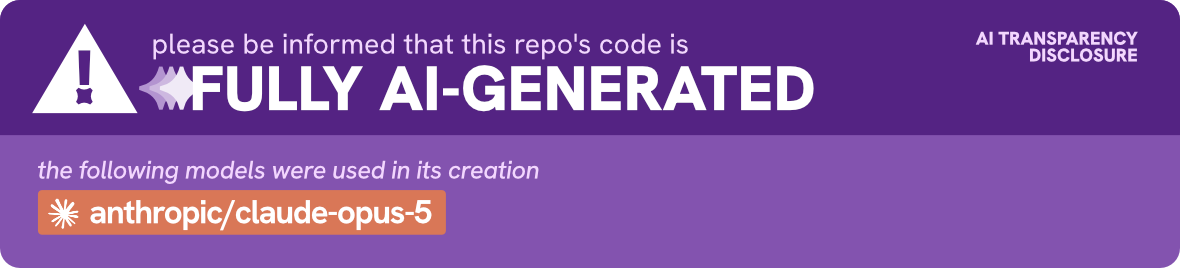
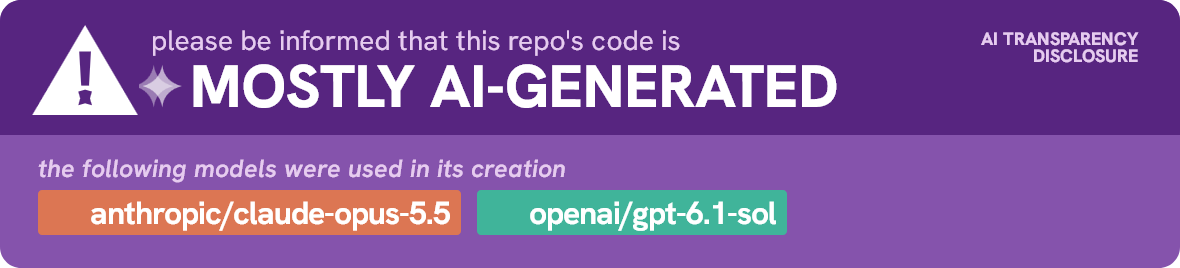
Update the README's AI disclosure and list the new docs

diff --git a/README.md b/README.md
@@ -1,4 +1,4 @@
-![AI Disclosure: Repo code is fully AI-generated. Makes use of anthropic/claude-opus-5](assets/ai-transparency-disclosure.png)
+![AI Disclosure: Repo code is mostly AI-generated. Makes use of anthropic/claude-opus-5-5 and openai/gpt-6-1-sol](assets/ai-transparency-disclosure.png)
 
 # Dun
 
@@ -13,17 +13,20 @@ Inspired by Due for iOS.
 > Status: in development, and usable. Everything above works on Windows and on
 > Android, including pairing and two-way sync.
 
-| Doc | What |
-|---|---|
-| [docs/HELP.md](docs/HELP.md) | Using Dun: quick-add phrases, nagging, handoff, and the phone settings that decide whether reminders arrive |
-| [docs/ARCHITECTURE.md](docs/ARCHITECTURE.md) | How the pieces fit: pure core, two shells, the rules that hold it together |
-| [docs/SYNC-PROTOCOL.md](docs/SYNC-PROTOCOL.md) | Pairing, the wire format, merge rules, handoff timings |
-| [docs/TESTING.md](docs/TESTING.md) | What the tests cover, the manual matrices, debug flags |
-| [docs/RELEASE.md](docs/RELEASE.md) | Building the installer and a signed APK |
+| Doc                                                                  | What                                                                                                        |
+| -------------------------------------------------------------------- | ----------------------------------------------------------------------------------------------------------- |
+| [docs/HELP.md](docs/HELP.md)                                         | Using Dun: quick-add phrases, nagging, handoff, and the phone settings that decide whether reminders arrive |
+| [docs/ARCHITECTURE.md](docs/ARCHITECTURE.md)                         | How the pieces fit: pure core, two shells, the rules that hold it together                                  |
+| [docs/SYNC-PROTOCOL.md](docs/SYNC-PROTOCOL.md)                       | Pairing, the wire format, merge rules, handoff timings                                                      |
+| [docs/TESTING.md](docs/TESTING.md)                                   | What the tests cover, the manual matrices, debug flags                                                      |
+| [docs/RELEASE.md](docs/RELEASE.md)                                   | Building the installer and a signed APK                                                                     |
+| [docs/APP-API.md](docs/APP-API.md)                                   | App API, Memos routing, and Arbor reminders                                                                 |
+| [docs/ANDROID-DEVICE-CHECKLIST.md](docs/ANDROID-DEVICE-CHECKLIST.md) | Batched checks for the next phone session                                                                   |
 
 ## Development setup (Windows)
 
 ### Prerequisites
+
 - Node 22.12+ and npm
 - Rust stable (`rust-toolchain.toml` pins the channel and pulls in the Android targets)
 - Visual Studio Build Tools with the C++ workload, and WebView2 (preinstalled on Windows 11)
@@ -33,6 +36,7 @@ Inspired by Due for iOS.
   - A JDK 17+ (Android Studio's bundled `jbr` works)
 
 ### Build output location
+
 Rust and Gradle build output runs to tens of GB. To keep it off a small system drive, create a machine-local, git-ignored `.cargo/config.toml`:
 
 ```toml
@@ -43,9 +47,10 @@ target-dir = "F:/DunBuild/target"
 `scripts/dev-env.ps1` uses the same root (`DUN_BUILD_ROOT`, default `F:\DunBuild`) for the NDK (`android-sdk\ndk\<version>`) and `GRADLE_USER_HOME`.
 
 ### Common commands
+
 A debug build loads its UI from the Vite dev server, so start it with
 `npm run tauri dev` (which starts both). Running `target/debug/dun.exe` on its
-own gives a window saying *localhost refused to connect* — the Rust side is
+own gives a window saying _localhost refused to connect_ — the Rust side is
 running fine, it just has no UI to show. Release builds have the UI baked in
 and need nothing else.
 
@@ -64,15 +69,16 @@ pwsh scripts/verify.ps1           # plus the NSIS installer
 ```
 
 ## Layout
-| Path | What |
-|---|---|
-| `src/` | Svelte 5 UI, shared by desktop and Android |
-| `crates/dun-core/` | Platform-neutral domain model, recurrence, scheduler, sync merge, SQLite storage |
-| `src-tauri/` | Tauri app shell (desktop and Android), commands, Windows integration |
-| `crates/dun-sync/` | TLS, certificate pinning, pairing, the HTTPS server and client |
-| `plugins/tauri-plugin-dun-android/` | The Kotlin side: alarms, notification channels, receivers |
-| `src-tauri/gen/android/` | Generated Android project, committed. Custom Kotlin lives in the local plugin, not here |
-| `scripts/` | `dev-env.ps1`, `verify.ps1` |
+
+| Path                                | What                                                                                    |
+| ----------------------------------- | --------------------------------------------------------------------------------------- |
+| `src/`                              | Svelte 5 UI, shared by desktop and Android                                              |
+| `crates/dun-core/`                  | Platform-neutral domain model, recurrence, scheduler, sync merge, SQLite storage        |
+| `src-tauri/`                        | Tauri app shell (desktop and Android), commands, Windows integration                    |
+| `crates/dun-sync/`                  | TLS, certificate pinning, pairing, the HTTPS server and client                          |
+| `plugins/tauri-plugin-dun-android/` | The Kotlin side: alarms, notification channels, receivers                               |
+| `src-tauri/gen/android/`            | Generated Android project, committed. Custom Kotlin lives in the local plugin, not here |
+| `scripts/`                          | `dev-env.ps1`, `verify.ps1`                                                             |
 
 ## License
 
